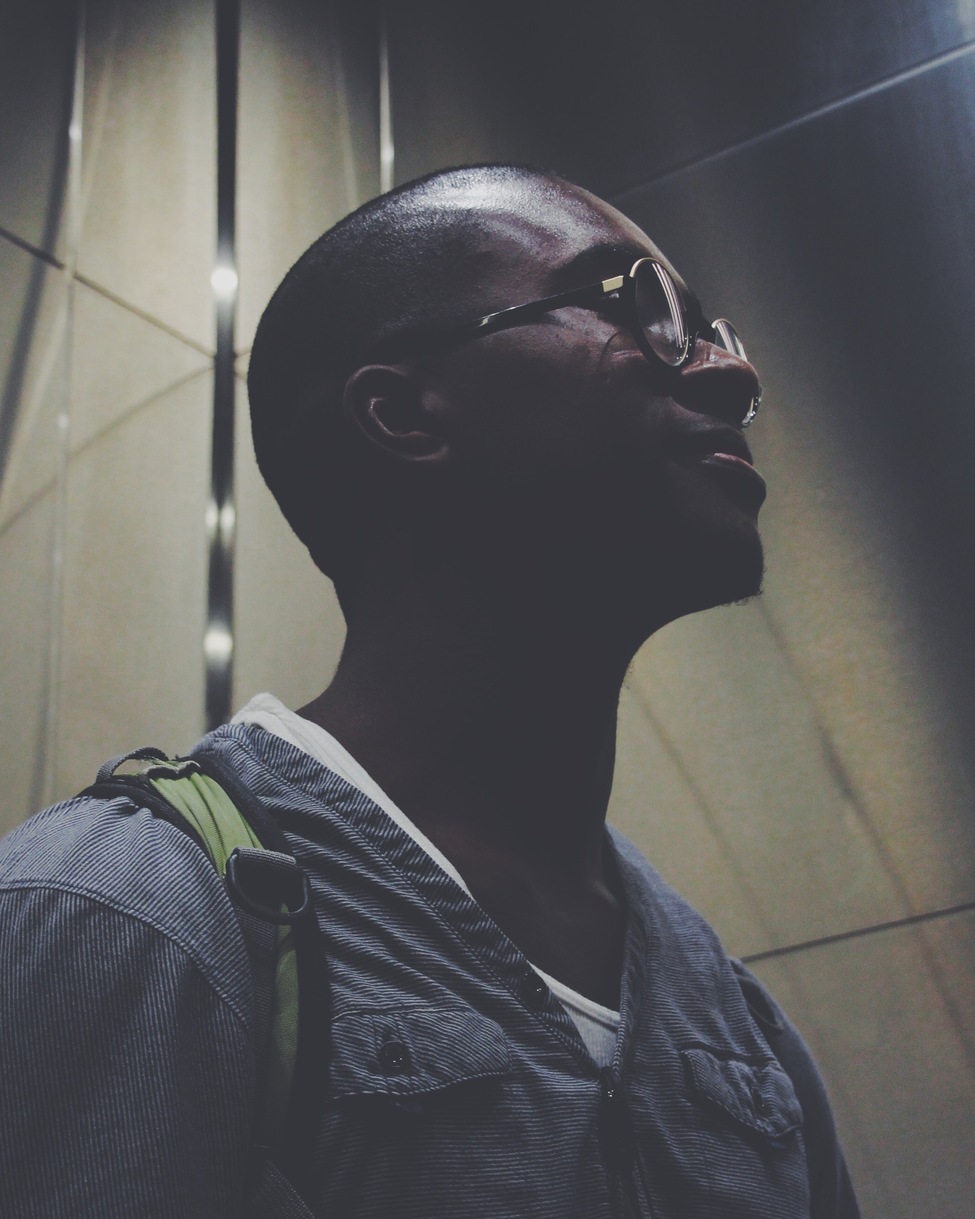
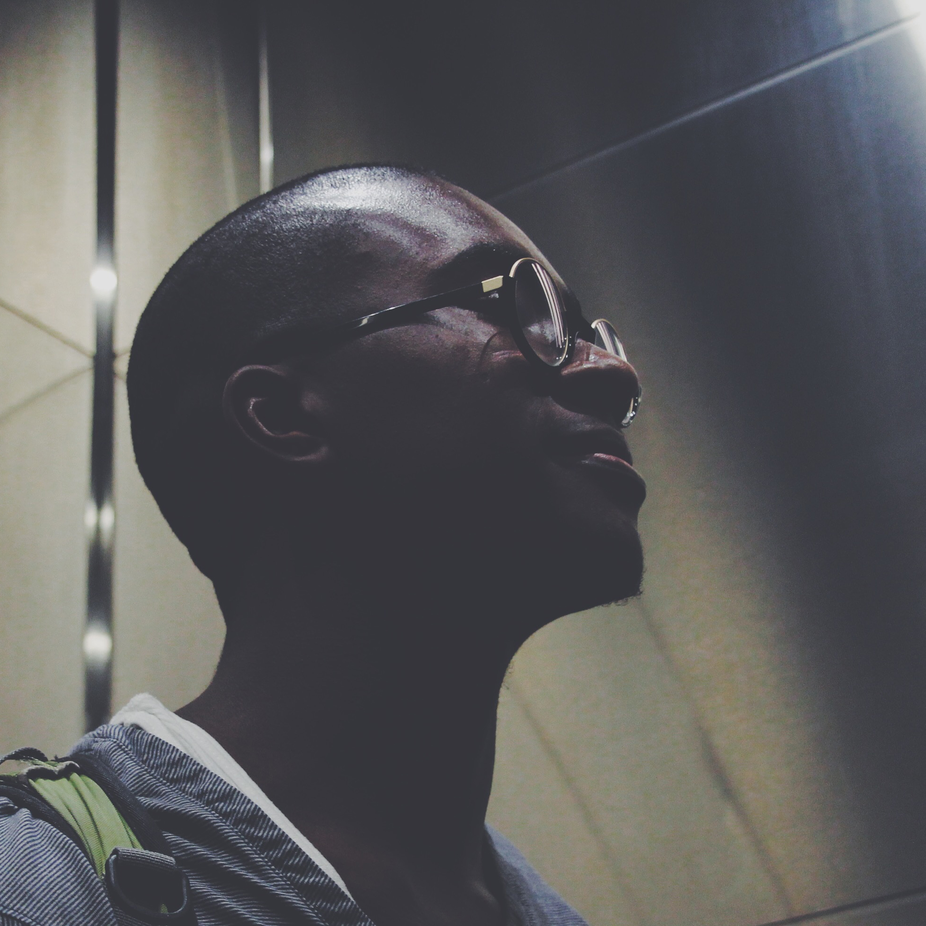
enabled mobile nav, added smaller background image

diff --git a/styles.css b/styles.css
@@ -17,12 +17,20 @@ body, ul {
   box-sizing: inherit;
 }
 
+a {
+  text-decoration: none;
+}
+
+/* main panel styling */
+
 .main {
   height: 100vh;
+  display: flex;
+  flex-direction: column-reverse;
 }
 
 .panels {
-  height: 85vh;
+  height: 90vh;
   display: flex;
 }
 
@@ -40,9 +48,42 @@ body, ul {
   flex-direction: column;
 }
 
-.panel1 { background-image:url('imgs/man2.jpg'); }
-.panel2 { background-image:url('imgs/working1.jpg'); }
-.panel3 { background-image:url('imgs/birds-alt.jpg'); }
+.panel1 { background-image:url('imgs/man-lg.jpg'); }
+.panel2 { background-image:url('imgs/working-lg.jpg'); }
+.panel3 { background-image:url('imgs/birds-lg.jpg'); }
+
+.panel p {
+  font-size: 1.7em;
+}
+
+.panel2 {
+  justify-content: center;
+}
+
+.panel1 p, .panel1 a {
+  color: #bbb1bf;
+  margin-top: -200px;
+}
+
+.button1 {
+  border: 2px solid #bbb1bf;
+}
+
+.panel2 p, .panel2 a {
+  color: #020202;
+}
+
+.button2 {
+  border: 2px solid #020202;
+}
+
+.panel3 p, .panel3 a {
+  color: #656565;
+}
+
+.button3 {
+  border: 2px solid #656565;
+}
 
 .panel.open {
   flex: 4;
@@ -52,20 +93,35 @@ body, ul {
   width: 200px;
   height: 50px;
   margin-bottom: 100px;
-  border: 2px solid #e5dce8;
   font-size: 1.5em;
 }
 
-a {
-  text-decoration: none;
+/* navstyling */
+
+nav {
+  width: 100vw;
+  height: 10vh;
+  background-color: #252525;
+}
+
+nav a {
   color: #bbb1bf;
 }
 
+.hamburger {
+  display: none;
+}
+
+.closeMenu {
+  display: none;
+}
+
 .menu {
+  visibility: visible;
+  z-index: 1;
+  width: 100%;
+  height: 100%;
   display: flex;
-  width: 100vw;
-  height: 15vh;
-  background-color: #252525;
   align-items: center;
   justify-content: center;
 }
@@ -81,6 +137,7 @@ a {
 }
 
 .menu ul {
+  visibility: visible;
   flex-grow: 1;
   display: flex;
   flex-direction: row;
@@ -95,7 +152,78 @@ a {
   list-style: none;
 }
 
+
 #about {
   height: 100vh;
   background-color: green;
+}
+
+#details {
+  height: 100vh;
+  background-color: red;
+}
+
+#contact {
+  height: 100vh;
+  background-color: blue;
+}
+
+
+@media screen and (max-width : 450px) {
+
+  nav {
+    position: fixed;
+    height: 77px;
+    top: 0;
+    left: 0;
+  }
+
+  .hamburger {
+    display: inline-block;
+    visibility: visible;
+    height: 30px;
+    margin: 20px;
+  }
+
+  .closeMenu {
+    display: inline-block;
+    visibility: hidden;
+    height: 40px;
+    margin: 15px;
+    float: right;
+  }
+
+  .menu {
+    transform: translateY(-150%);
+    transition:
+      transform 0.5s cubic-bezier(0.51, 0.1, 0.11, 0.97);
+    height: 250px;
+    width: 100vw;
+    background-color: #252525;
+  }
+
+  .menu ul {
+    height: 250px;
+    flex-grow: 1;
+    display: flex;
+    flex-direction: column;
+    align-items: center;
+    justify-content: center;
+  }
+
+  .menu li {
+    text-align: center;
+    flex-grow: 1;
+    margin: 0 0 auto;
+    list-style: none;
+  }
+
+  .panels {
+    background-image: url('imgs/man-small.jpg');
+  }
+
+  .panel {
+    display: none;
+  }
+
 }

diff --git a/script.js b/script.js
@@ -2,9 +2,14 @@ const panels = document.querySelectorAll('.panel');
 const buttons = document.querySelector('.panelButton');
 const main = document.querySelector('.main');
 const mainHeight = getComputedStyle(main).height.split('px')[0];
-const nav = document.querySelector('.menu');
+const nav = document.querySelector('nav');
 const navHeight = getComputedStyle(nav).height.split('px')[0];
+const hamburger = document.querySelector('.hamburger');
+const closeMenu = document.querySelector('.closeMenu');
+const menu = document.querySelector('.menu');
 
+
+// gallery animation at the top
 function toggleOpen() {
   panels.forEach((panel) => {
     panel.classList.toggle('open', false);
@@ -22,15 +27,32 @@ function toggleOpen() {
 panels.forEach(panel => panel.addEventListener('mouseover', toggleOpen));
 panels.forEach(panel => panel.addEventListener('click', toggleOpen));
 
+
+// fix navbar at top for desktop displays
 function fixScroll(e) {
-  if( window.pageYOffset > mainHeight - navHeight) {
+  if(window.pageYOffset > mainHeight - navHeight) {
     nav.classList.remove('mobile');
     nav.classList.add('fixed');
   }
-  if( window.pageYOffset < mainHeight - navHeight) {
+  if(window.pageYOffset < mainHeight - navHeight) {
     nav.classList.remove('fixed');
     nav.classList.add('mobile');
   }
 }
 
-window.addEventListener('scroll', fixScroll, false);
+if (window.innerWidth > 450) {
+  window.addEventListener('scroll', fixScroll, false);
+}
+
+// open and close the menu on mobile
+hamburger.addEventListener('click', () => {
+  menu.style.transform = 'translateY(0)';
+  hamburger.style.visibility = 'hidden';
+  closeMenu.style.visibility = 'visible';
+});
+
+closeMenu.addEventListener('click', () => {
+  menu.style.transform = 'translateY(-150%)';
+  hamburger.style.visibility = 'visible';
+  closeMenu.style.visibility = 'hidden';
+});

diff --git a/index.html b/index.html
@@ -2,6 +2,7 @@
 <html>
   <head>
     <meta charset="utf-8">
+    <meta name="viewport" content="width=device-width" />
     <title>Demo Landing Page</title>
     <link rel="stylesheet" href="styles.css">
     <script type="text/javascript" src="script.js" async></script>
@@ -9,6 +10,17 @@
   <body>
 
     <section class="main">
+      <nav>
+        <img class="hamburger" src="imgs/hamburger.svg" />
+        <img class="closeMenu" src="imgs/hamburgerClose.svg" />
+        <div class="menu">
+          <ul className="menuItems">
+            <li class="menuItem"><a href="#about">ABOUT</a></li>
+            <li class="menuItem"><a href="#details">PHILOSOPHY</a></li>
+            <li class="menuItem"><a href="#contact">CONTACT</a></li>
+          </ul>
+        </div>
+      </nav>
       <div class="panels">
         <div class="panel panel1">
           <p>your vision</p>
@@ -17,7 +29,7 @@
           </div>
         </div>
         <div class="panel panel2">
-          <p>our award-winning team</p>
+          <p>our team</p>
           <div class="panelButton button2">
             <a href="#details">how we work</a>
           </div>
@@ -29,13 +41,6 @@
           </div>
         </div>
       </div>
-      <nav class="menu">
-        <ul className="menuItems">
-          <li class="menuItem"><a href="#about">ABOUT</a></li>
-          <li class="menuItem"><a href="#details">PHILOSOPHY</a></li>
-          <li class="menuItem"><a href="#contact">CONTACT</a></li>
-        </ul>
-      </nav>
     </section>
 
     <section id="about">
@@ -44,7 +49,7 @@
     <section id="details">
     </section>
 
-    <section class="contact">
+    <section id="contact">
     </section>
 
   </body>
